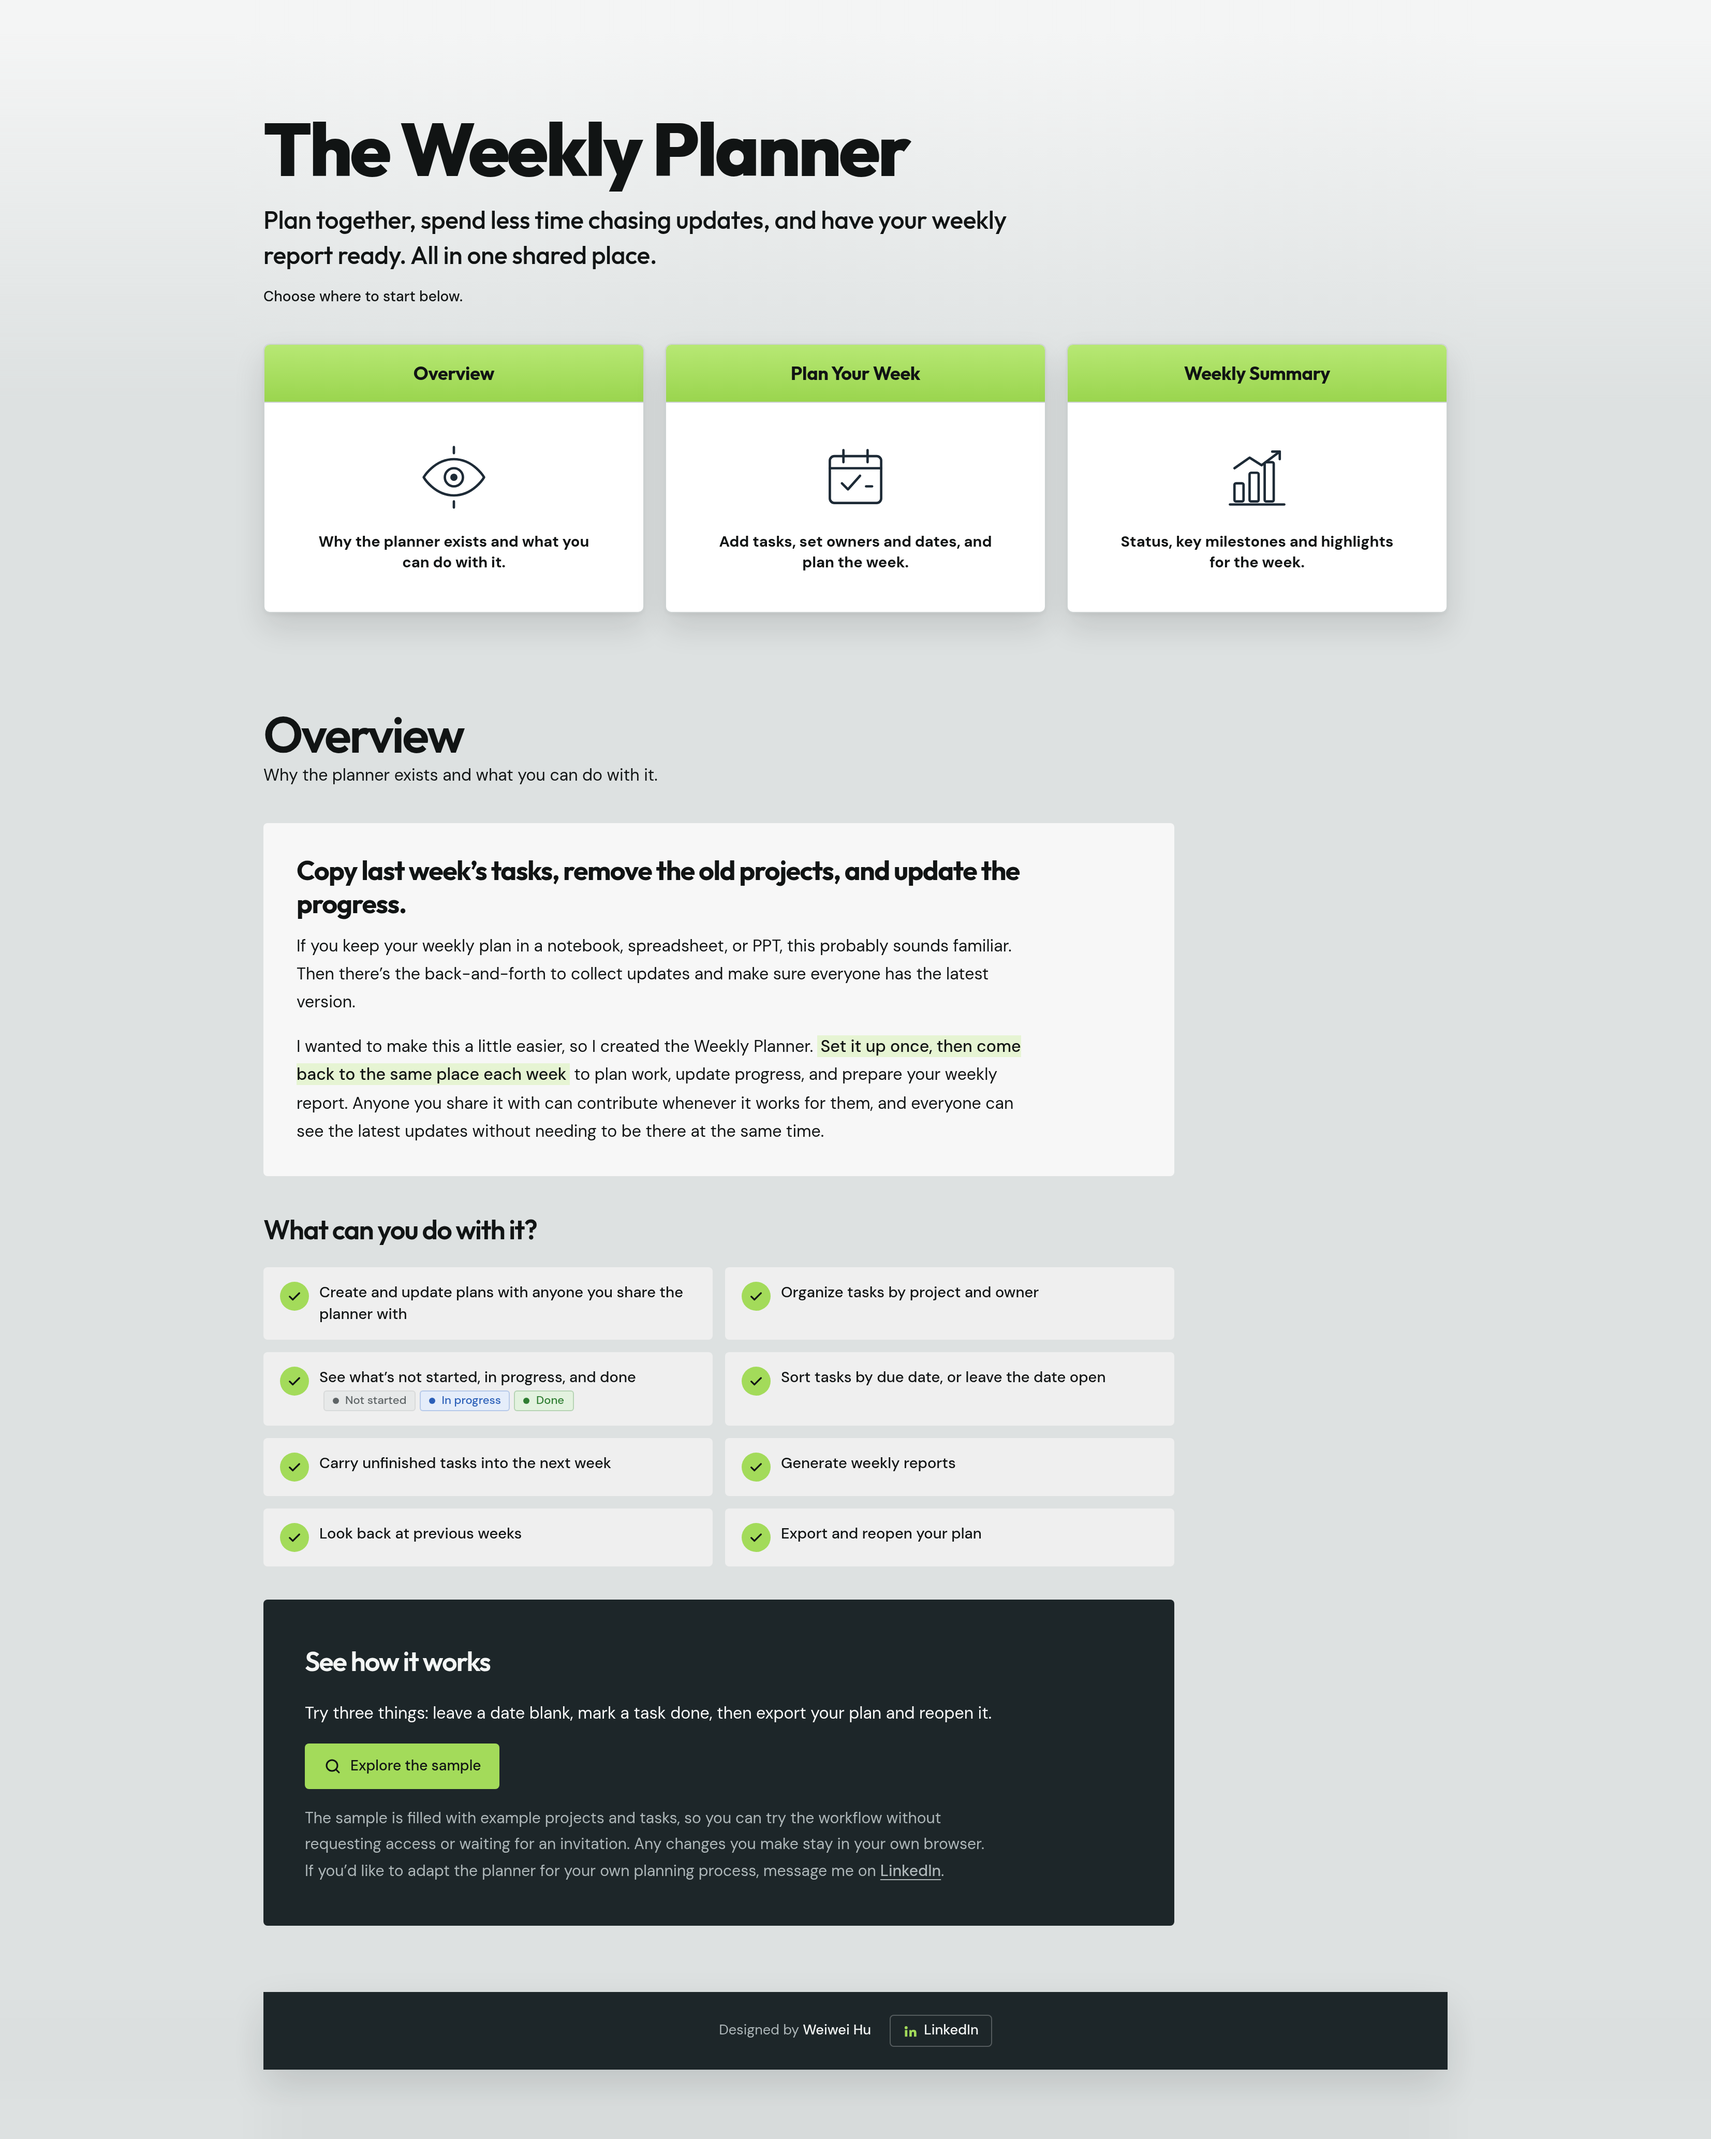
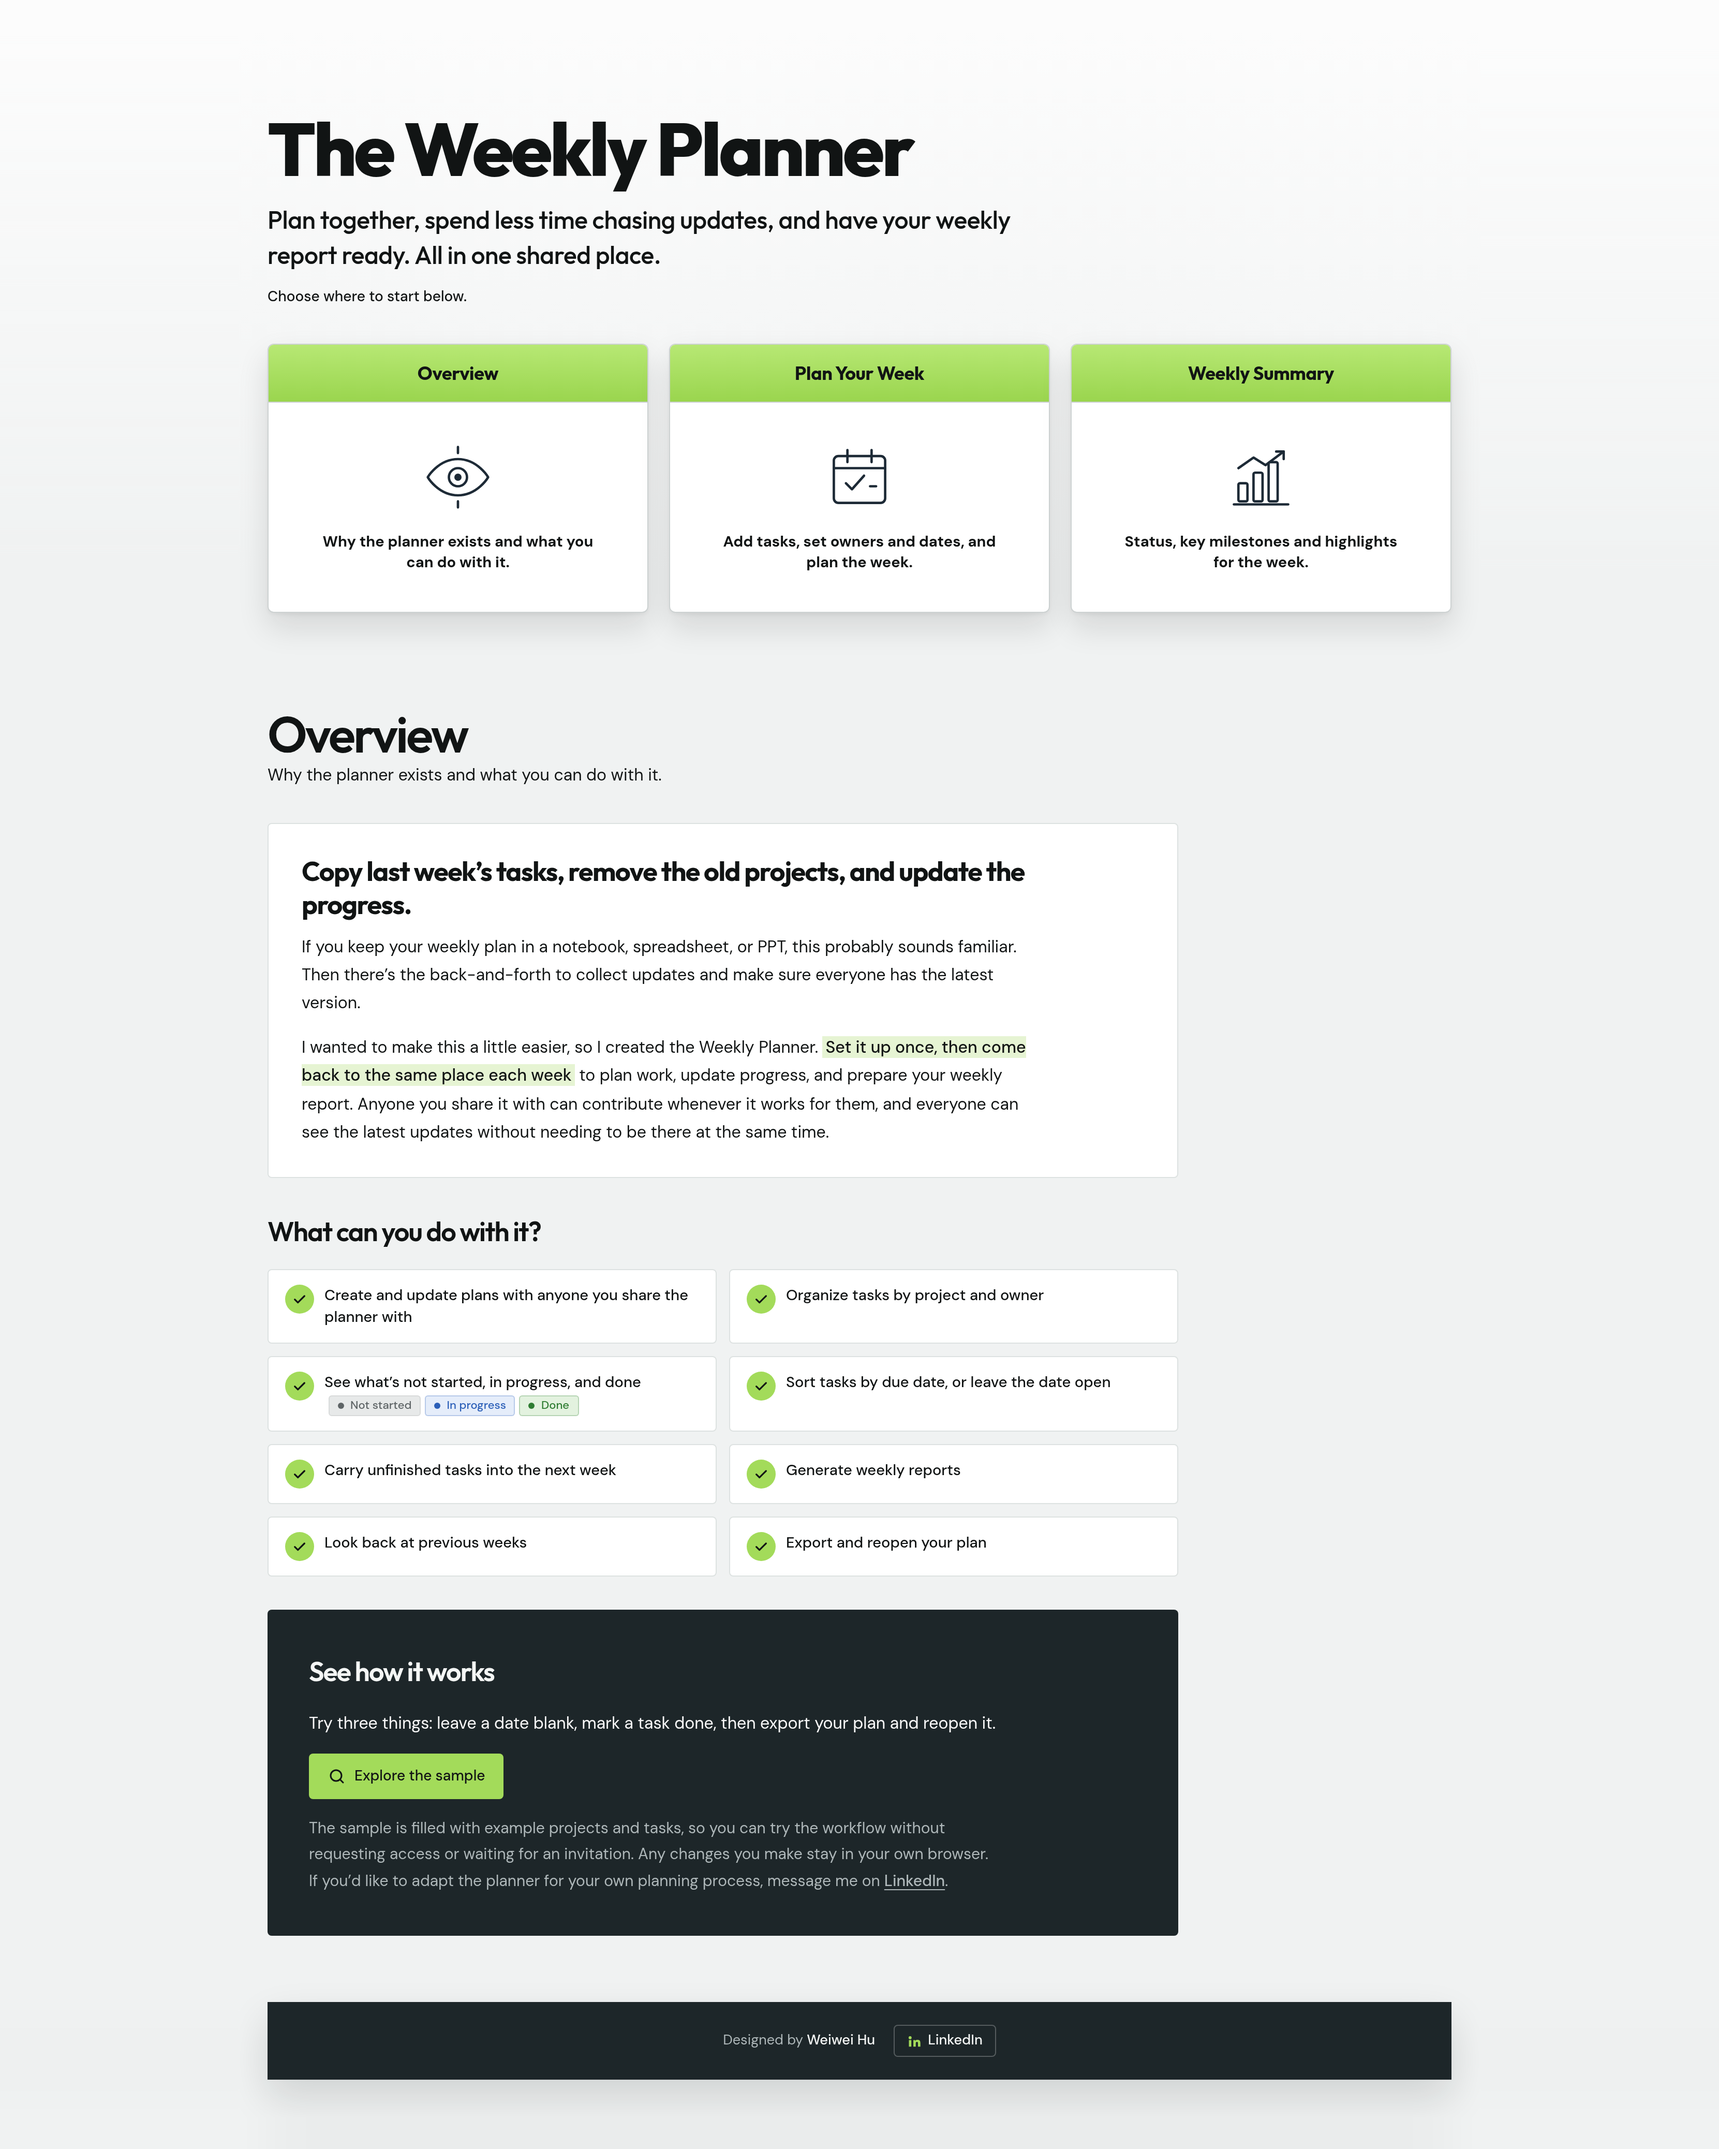
Lighten the page background and regenerate the cover
Claude-Session: https://claude.ai/code/session_01VDgZDGuyWY1t5kV3qQKL2N

diff --git a/planner/dist/weekly-planner-sample.html b/planner/dist/weekly-planner-sample.html
@@ -953,6 +953,14 @@ body { background: linear-gradient(180deg, #F4F5F5 0, #DDE1E1 360px) fixed, #DDE
 @media (prefers-color-scheme: dark) { :root:not([data-theme="light"]) #homeView .tilegrid { background: transparent; } :root:not([data-theme="light"]) #homeView .navtile { border-color: #3a4548; } }
 :root[data-theme="dark"] #homeView .tilegrid { background: transparent; }
 :root[data-theme="dark"] #homeView .navtile { border-color: #3a4548; }
+
+/* Lighter page background */
+body { background: linear-gradient(180deg, #FCFCFC 0, #F0F2F2 520px) fixed, #F0F2F2; }
+@media (prefers-color-scheme: dark) { :root:not([data-theme="light"]) body { background: var(--bg); } }
+:root[data-theme="dark"] body { background: var(--bg); }
+.intro .story, .feat li { background: #FFFFFF; border: 1px solid #DDE2E1; }
+@media (prefers-color-scheme: dark) { :root:not([data-theme="light"]) .intro .story, :root:not([data-theme="light"]) .feat li { background: var(--surface); border-color: var(--line); } }
+:root[data-theme="dark"] .intro .story, :root[data-theme="dark"] .feat li { background: var(--surface); border-color: var(--line); }
 </style>
 
 <div class="wrap">

diff --git a/planner/dist/weekly-planner.html b/planner/dist/weekly-planner.html
@@ -953,6 +953,14 @@ body { background: linear-gradient(180deg, #F4F5F5 0, #DDE1E1 360px) fixed, #DDE
 @media (prefers-color-scheme: dark) { :root:not([data-theme="light"]) #homeView .tilegrid { background: transparent; } :root:not([data-theme="light"]) #homeView .navtile { border-color: #3a4548; } }
 :root[data-theme="dark"] #homeView .tilegrid { background: transparent; }
 :root[data-theme="dark"] #homeView .navtile { border-color: #3a4548; }
+
+/* Lighter page background */
+body { background: linear-gradient(180deg, #FCFCFC 0, #F0F2F2 520px) fixed, #F0F2F2; }
+@media (prefers-color-scheme: dark) { :root:not([data-theme="light"]) body { background: var(--bg); } }
+:root[data-theme="dark"] body { background: var(--bg); }
+.intro .story, .feat li { background: #FFFFFF; border: 1px solid #DDE2E1; }
+@media (prefers-color-scheme: dark) { :root:not([data-theme="light"]) .intro .story, :root:not([data-theme="light"]) .feat li { background: var(--surface); border-color: var(--line); } }
+:root[data-theme="dark"] .intro .story, :root[data-theme="dark"] .feat li { background: var(--surface); border-color: var(--line); }
 </style>
 
 <div class="wrap">

diff --git a/planner/sample-index.html b/planner/sample-index.html
@@ -953,6 +953,14 @@ body { background: linear-gradient(180deg, #F4F5F5 0, #DDE1E1 360px) fixed, #DDE
 @media (prefers-color-scheme: dark) { :root:not([data-theme="light"]) #homeView .tilegrid { background: transparent; } :root:not([data-theme="light"]) #homeView .navtile { border-color: #3a4548; } }
 :root[data-theme="dark"] #homeView .tilegrid { background: transparent; }
 :root[data-theme="dark"] #homeView .navtile { border-color: #3a4548; }
+
+/* Lighter page background */
+body { background: linear-gradient(180deg, #FCFCFC 0, #F0F2F2 520px) fixed, #F0F2F2; }
+@media (prefers-color-scheme: dark) { :root:not([data-theme="light"]) body { background: var(--bg); } }
+:root[data-theme="dark"] body { background: var(--bg); }
+.intro .story, .feat li { background: #FFFFFF; border: 1px solid #DDE2E1; }
+@media (prefers-color-scheme: dark) { :root:not([data-theme="light"]) .intro .story, :root:not([data-theme="light"]) .feat li { background: var(--surface); border-color: var(--line); } }
+:root[data-theme="dark"] .intro .story, :root[data-theme="dark"] .feat li { background: var(--surface); border-color: var(--line); }
 </style>
 
 <div class="wrap">

diff --git a/planner/sample.html b/planner/sample.html
@@ -946,6 +946,14 @@ body { background: linear-gradient(180deg, #F4F5F5 0, #DDE1E1 360px) fixed, #DDE
 @media (prefers-color-scheme: dark) { :root:not([data-theme="light"]) #homeView .tilegrid { background: transparent; } :root:not([data-theme="light"]) #homeView .navtile { border-color: #3a4548; } }
 :root[data-theme="dark"] #homeView .tilegrid { background: transparent; }
 :root[data-theme="dark"] #homeView .navtile { border-color: #3a4548; }
+
+/* Lighter page background */
+body { background: linear-gradient(180deg, #FCFCFC 0, #F0F2F2 520px) fixed, #F0F2F2; }
+@media (prefers-color-scheme: dark) { :root:not([data-theme="light"]) body { background: var(--bg); } }
+:root[data-theme="dark"] body { background: var(--bg); }
+.intro .story, .feat li { background: #FFFFFF; border: 1px solid #DDE2E1; }
+@media (prefers-color-scheme: dark) { :root:not([data-theme="light"]) .intro .story, :root:not([data-theme="light"]) .feat li { background: var(--surface); border-color: var(--line); } }
+:root[data-theme="dark"] .intro .story, :root[data-theme="dark"] .feat li { background: var(--surface); border-color: var(--line); }
 </style>
 
 <div class="wrap">

diff --git a/planner/team-index.html b/planner/team-index.html
@@ -971,6 +971,14 @@ body { background: linear-gradient(180deg, #F4F5F5 0, #DDE1E1 360px) fixed, #DDE
 @media (prefers-color-scheme: dark) { :root:not([data-theme="light"]) #homeView .tilegrid { background: transparent; } :root:not([data-theme="light"]) #homeView .navtile { border-color: #3a4548; } }
 :root[data-theme="dark"] #homeView .tilegrid { background: transparent; }
 :root[data-theme="dark"] #homeView .navtile { border-color: #3a4548; }
+
+/* Lighter page background */
+body { background: linear-gradient(180deg, #FCFCFC 0, #F0F2F2 520px) fixed, #F0F2F2; }
+@media (prefers-color-scheme: dark) { :root:not([data-theme="light"]) body { background: var(--bg); } }
+:root[data-theme="dark"] body { background: var(--bg); }
+.intro .story, .feat li { background: #FFFFFF; border: 1px solid #DDE2E1; }
+@media (prefers-color-scheme: dark) { :root:not([data-theme="light"]) .intro .story, :root:not([data-theme="light"]) .feat li { background: var(--surface); border-color: var(--line); } }
+:root[data-theme="dark"] .intro .story, :root[data-theme="dark"] .feat li { background: var(--surface); border-color: var(--line); }
 </style>
 
 <div class="wrap">

diff --git a/planner/team.html b/planner/team.html
@@ -964,6 +964,14 @@ body { background: linear-gradient(180deg, #F4F5F5 0, #DDE1E1 360px) fixed, #DDE
 @media (prefers-color-scheme: dark) { :root:not([data-theme="light"]) #homeView .tilegrid { background: transparent; } :root:not([data-theme="light"]) #homeView .navtile { border-color: #3a4548; } }
 :root[data-theme="dark"] #homeView .tilegrid { background: transparent; }
 :root[data-theme="dark"] #homeView .navtile { border-color: #3a4548; }
+
+/* Lighter page background */
+body { background: linear-gradient(180deg, #FCFCFC 0, #F0F2F2 520px) fixed, #F0F2F2; }
+@media (prefers-color-scheme: dark) { :root:not([data-theme="light"]) body { background: var(--bg); } }
+:root[data-theme="dark"] body { background: var(--bg); }
+.intro .story, .feat li { background: #FFFFFF; border: 1px solid #DDE2E1; }
+@media (prefers-color-scheme: dark) { :root:not([data-theme="light"]) .intro .story, :root:not([data-theme="light"]) .feat li { background: var(--surface); border-color: var(--line); } }
+:root[data-theme="dark"] .intro .story, :root[data-theme="dark"] .feat li { background: var(--surface); border-color: var(--line); }
 </style>
 
 <div class="wrap">
